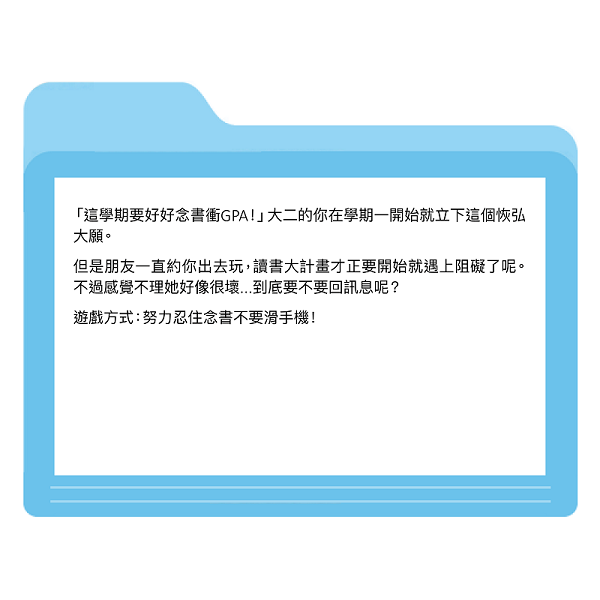
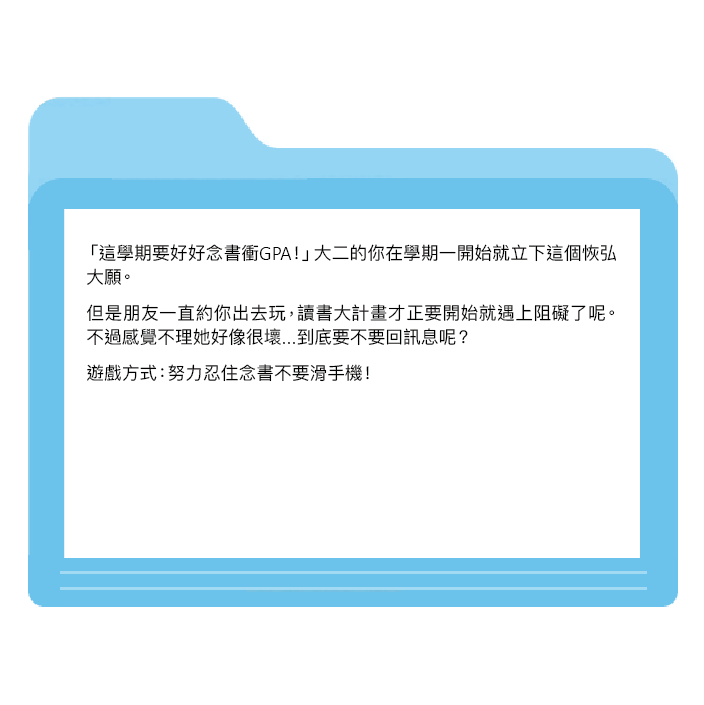
修改game2_in_main
除了最終成績可能要修改，其他應該好了

diff --git a/main/game2_in_main.py b/main/game2_in_main.py
@@ -208,9 +208,9 @@ def game2_start():
                 interpersonal_relationship = 0
                 health_value = 10
 
-            else:
+            else: # point > 4
                 academic_performance = 30
-                romantic_relationship = 0  # 學霸加成
+                romantic_relationship = -30
                 interpersonal_relationship = 10
                 health_value = 20
 
@@ -255,8 +255,8 @@ def game2_start():
             background.convert()
             window_surface.blit(background, (0, 0))
             group.draw(window_surface)
-            RESUME = Line(157, 34, 400,
-                          500, WINDOW_WIDTH, WINDOW_HEIGHT, 'G2-resume.png')
+            RESUME = Line(233, 34, 300,
+                          500, WINDOW_WIDTH, WINDOW_HEIGHT, 'G2-back_to_map.png')
             window_surface.blit(RESUME.image, RESUME.rect)
             for i in range(len(text_surface_list)):
                 window_surface.blit(
@@ -266,22 +266,25 @@ def game2_start():
 
         elif game_over_time == 2:  # 遊戲說明畫面
         
-            RESUME = Line(int(185/2), int(67/2), 400,
+            RESUME = Line(int(185/2), int(67/2), 430,
                           430, WINDOW_WIDTH, WINDOW_HEIGHT, 'G2-play.png')
-                          
+            # cursor
             if RESUME.rect.topleft[0] < pygame.mouse.get_pos()[0] < RESUME.rect.topleft[0] + RESUME.width \
                 and RESUME.rect.topleft[1] < pygame.mouse.get_pos()[1] < RESUME.rect.topleft[1] + RESUME.height:
                 pygame.mouse.set_cursor(*pygame.cursors.diamond)
             else:
                 pygame.mouse.set_cursor(*pygame.cursors.tri_left)       
                 
-            background_raw = pygame.image.load(
-                'G2-intro1.png')
+            background_raw = pygame.image.load('G2-background2.jpg')
             # 調整背景圖片大小
             background = pygame.transform.scale(
                 background_raw, (WINDOW_WIDTH, WINDOW_HEIGHT))
+            intro_raw = pygame.image.load('G2-intro1.png')
+            intro = pygame.transform.smoothscale(
+                intro_raw, (WINDOW_WIDTH, WINDOW_HEIGHT))
             background.convert()
             window_surface.blit(background, (0, 0))
+            window_surface.blit(intro, (0, 0))
             window_surface.blit(RESUME.image, RESUME.rect)
             # intro_text = my_final_font.render('this is the introduction.', True, (0, 0, 0))
             # window_surface.blit(intro_text, (10, 10))

diff --git a/game2/game2.py b/game2/game2.py
@@ -208,9 +208,9 @@ def game2_start():
                 interpersonal_relationship = 0
                 health_value = 10
 
-            else:
+            else: # point > 4
                 academic_performance = 30
-                romantic_relationship = 0  # 學霸加成
+                romantic_relationship = -30
                 interpersonal_relationship = 10
                 health_value = 20
 
@@ -255,8 +255,8 @@ def game2_start():
             background.convert()
             window_surface.blit(background, (0, 0))
             group.draw(window_surface)
-            RESUME = Line(157, 34, 400,
-                          500, WINDOW_WIDTH, WINDOW_HEIGHT, 'G2-resume.png')
+            RESUME = Line(233, 34, 300,
+                          500, WINDOW_WIDTH, WINDOW_HEIGHT, 'G2-back_to_map.png')
             window_surface.blit(RESUME.image, RESUME.rect)
             for i in range(len(text_surface_list)):
                 window_surface.blit(
@@ -266,7 +266,7 @@ def game2_start():
 
         elif game_over_time == 2:  # 遊戲說明畫面
         
-            RESUME = Line(int(185/2), int(67/2), 400,
+            RESUME = Line(int(185/2), int(67/2), 430,
                           430, WINDOW_WIDTH, WINDOW_HEIGHT, 'G2-play.png')
             # cursor
             if RESUME.rect.topleft[0] < pygame.mouse.get_pos()[0] < RESUME.rect.topleft[0] + RESUME.width \
@@ -275,13 +275,16 @@ def game2_start():
             else:
                 pygame.mouse.set_cursor(*pygame.cursors.tri_left)       
                 
-            background_raw = pygame.image.load(
-                'G2-intro1.png')
+            background_raw = pygame.image.load('G2-background2.jpg')
             # 調整背景圖片大小
             background = pygame.transform.scale(
                 background_raw, (WINDOW_WIDTH, WINDOW_HEIGHT))
+            intro_raw = pygame.image.load('G2-intro1.png')
+            intro = pygame.transform.smoothscale(
+                intro_raw, (WINDOW_WIDTH, WINDOW_HEIGHT))
             background.convert()
             window_surface.blit(background, (0, 0))
+            window_surface.blit(intro, (0, 0))
             window_surface.blit(RESUME.image, RESUME.rect)
             # intro_text = my_final_font.render('this is the introduction.', True, (0, 0, 0))
             # window_surface.blit(intro_text, (10, 10))
